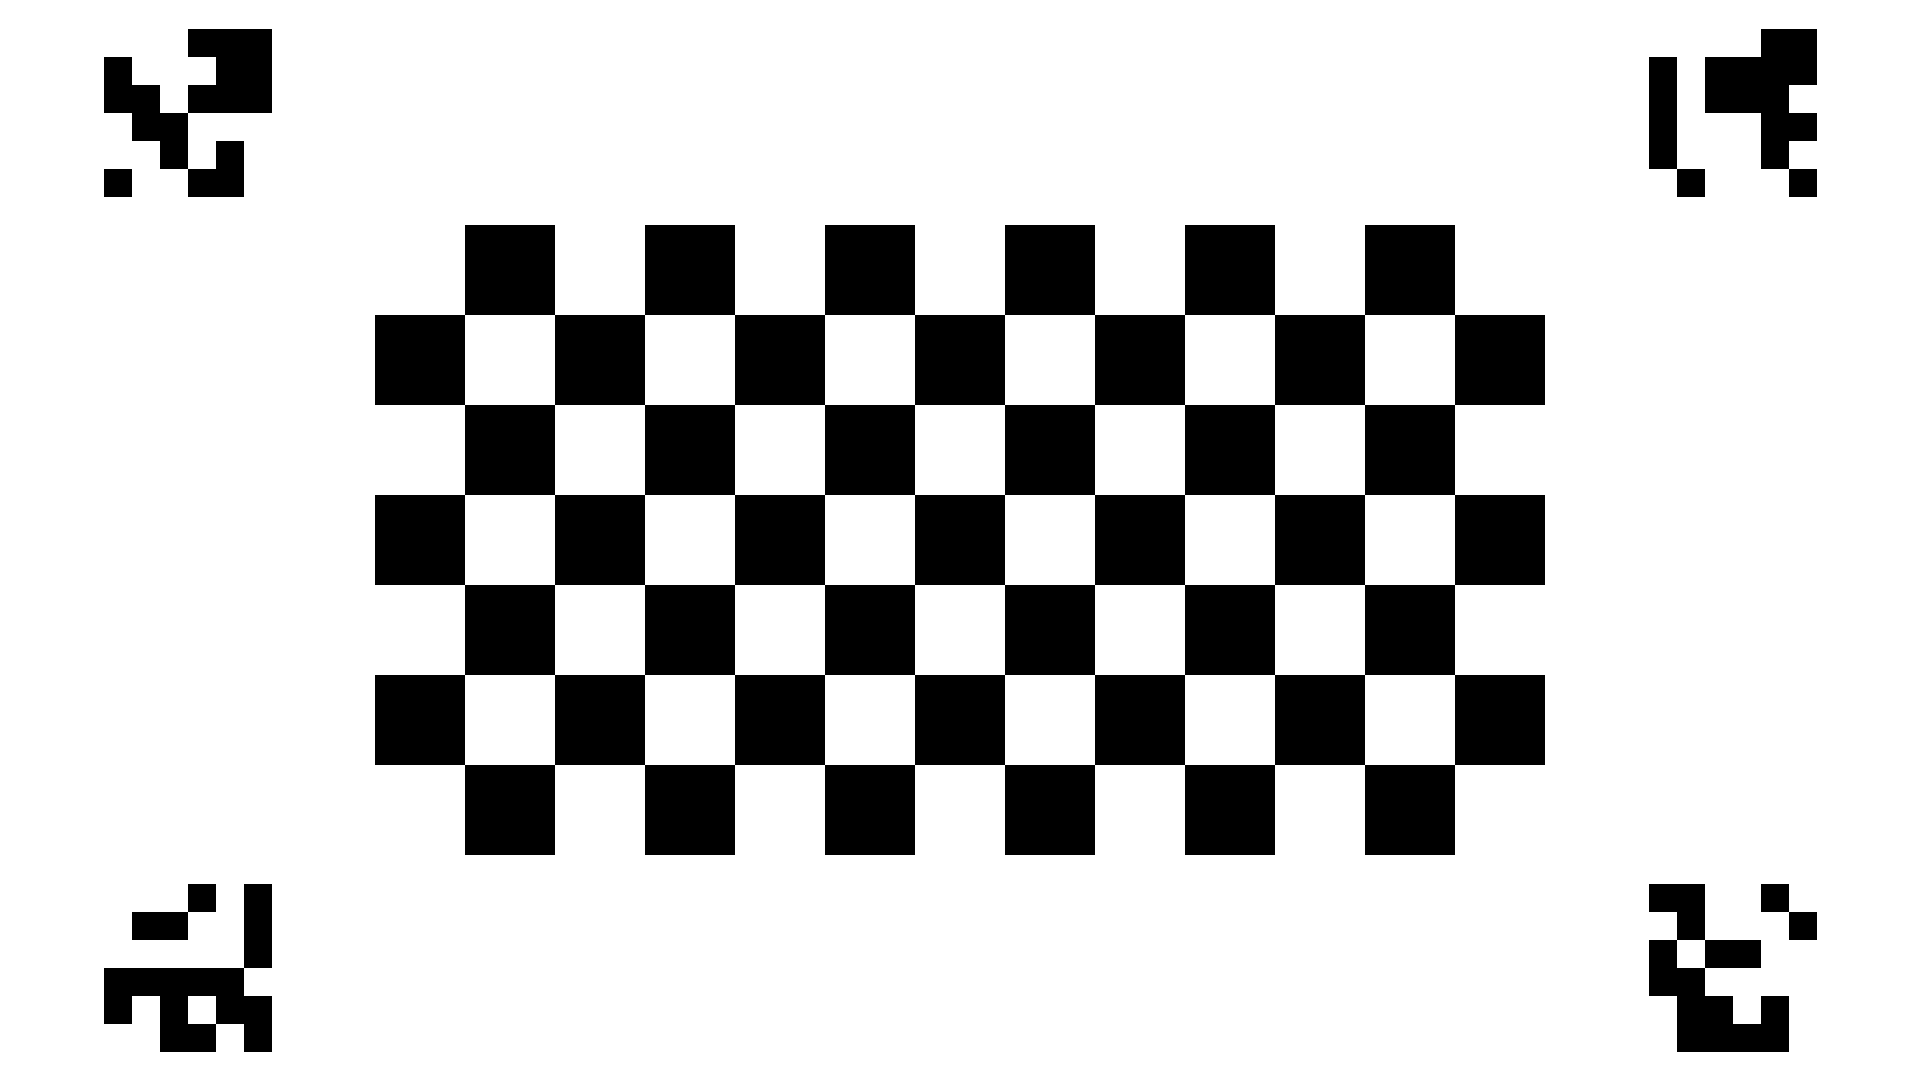
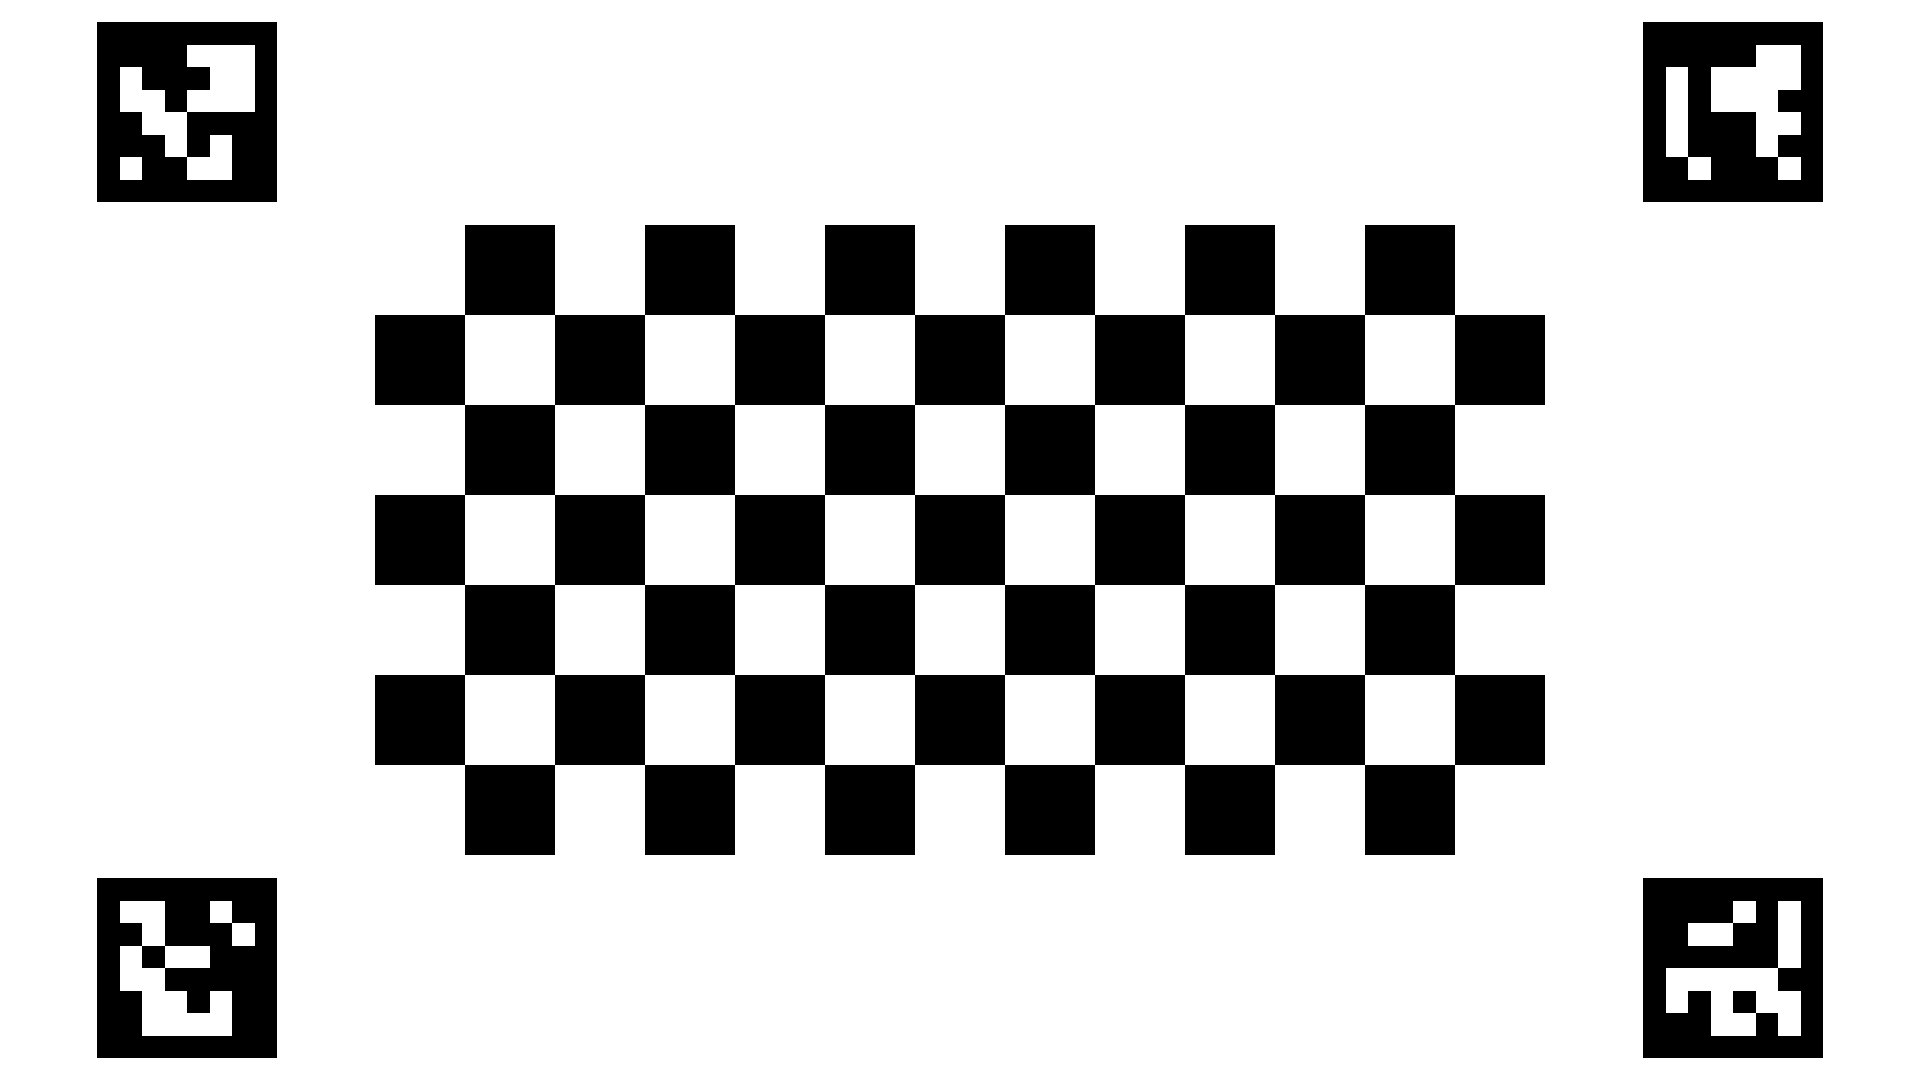
fix: fix generate calibration image

diff --git a/camera/generate_calibation_pic.py b/camera/generate_calibation_pic.py
@@ -1,5 +1,4 @@
 import cv2
-from cv2 import aruco
 import numpy as np
 
 GRID_SIZE = 90
@@ -13,14 +12,14 @@ PADDING = (
 
 markers = [np.zeros((MARKER_SIZE, MARKER_SIZE), dtype=np.uint8) for _ in range(4)]
 markers = [
-    aruco.drawMarker(
-        aruco.Dictionary_get(cv2.aruco.DICT_6X6_50),
+    cv2.aruco.drawMarker(
+        cv2.aruco.getPredefinedDictionary(cv2.aruco.DICT_6X6_50),
         id,
         MARKER_SIZE,
         img,
         1,
     )
-    for id, img in enumerate(markers)
+    for id, img in zip((0, 1, 3, 2), markers)
 ]
 
 img = np.ones(SCREEN_SIZE[::-1], dtype=np.uint8) * 255
@@ -45,5 +44,4 @@ for i, marker in enumerate(markers):
 
     img[pos[1] : pos[1] + MARKER_SIZE, pos[0] : pos[0] + MARKER_SIZE] = marker
 
-
-cv2.imwrite("calibration1.png", img)
+cv2.imwrite("calibration.png", img)
